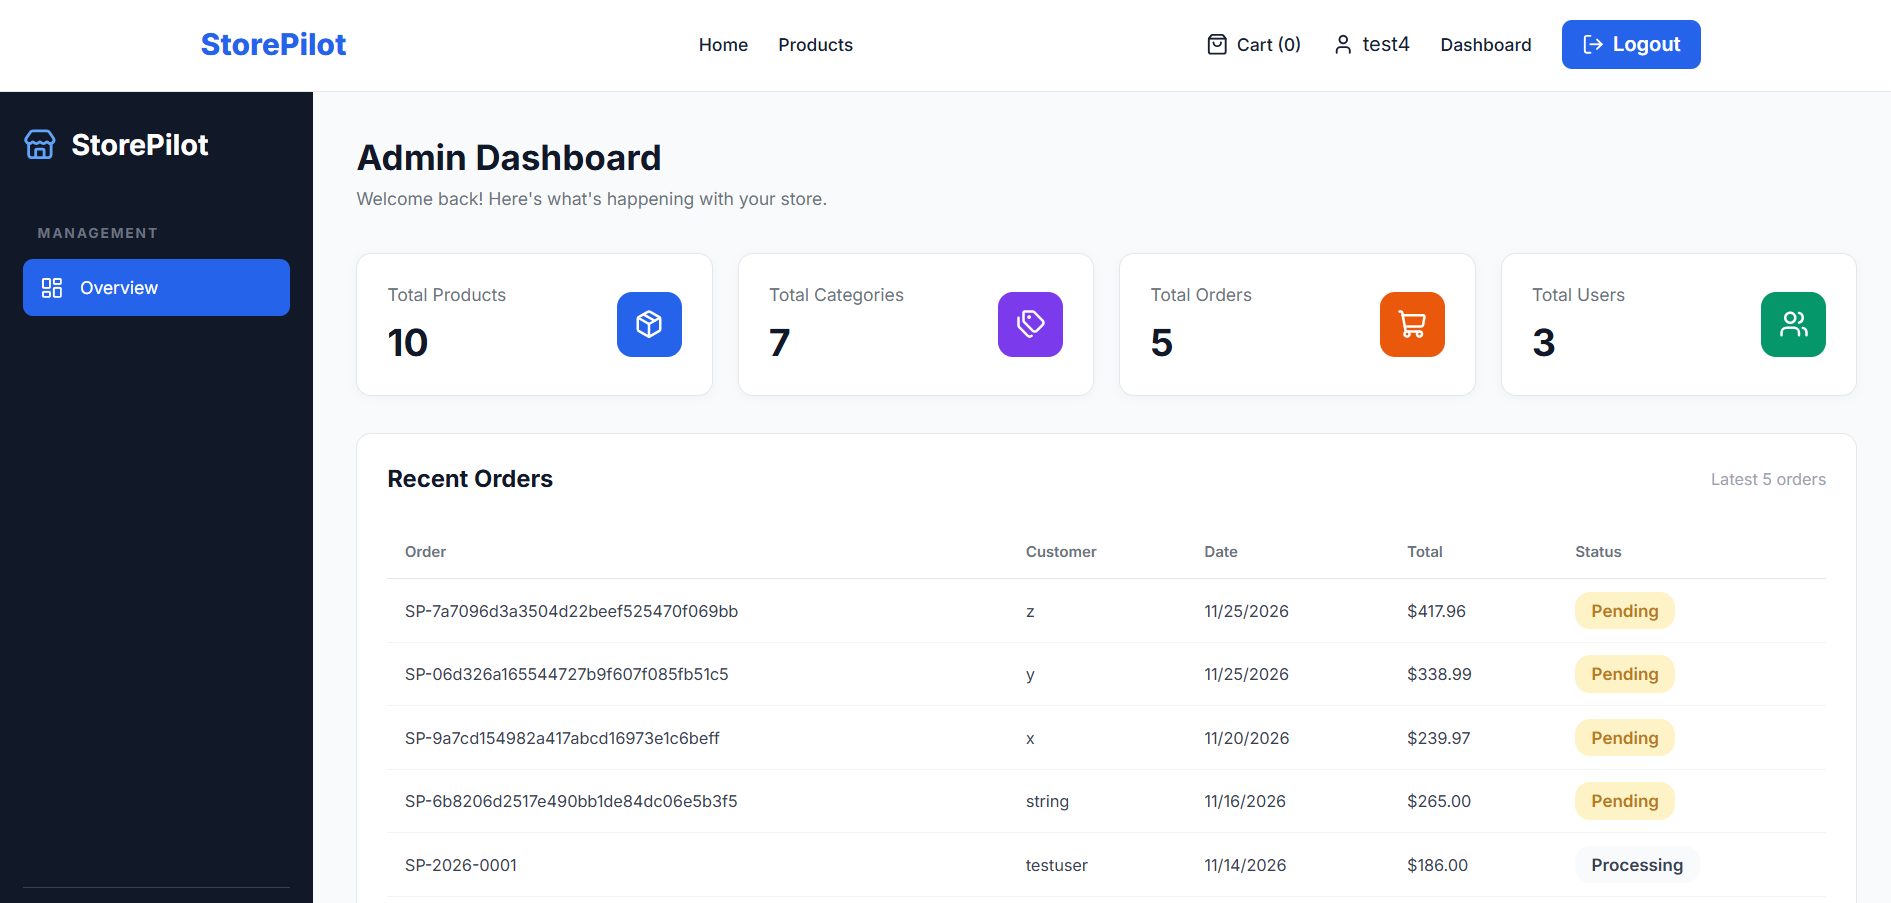
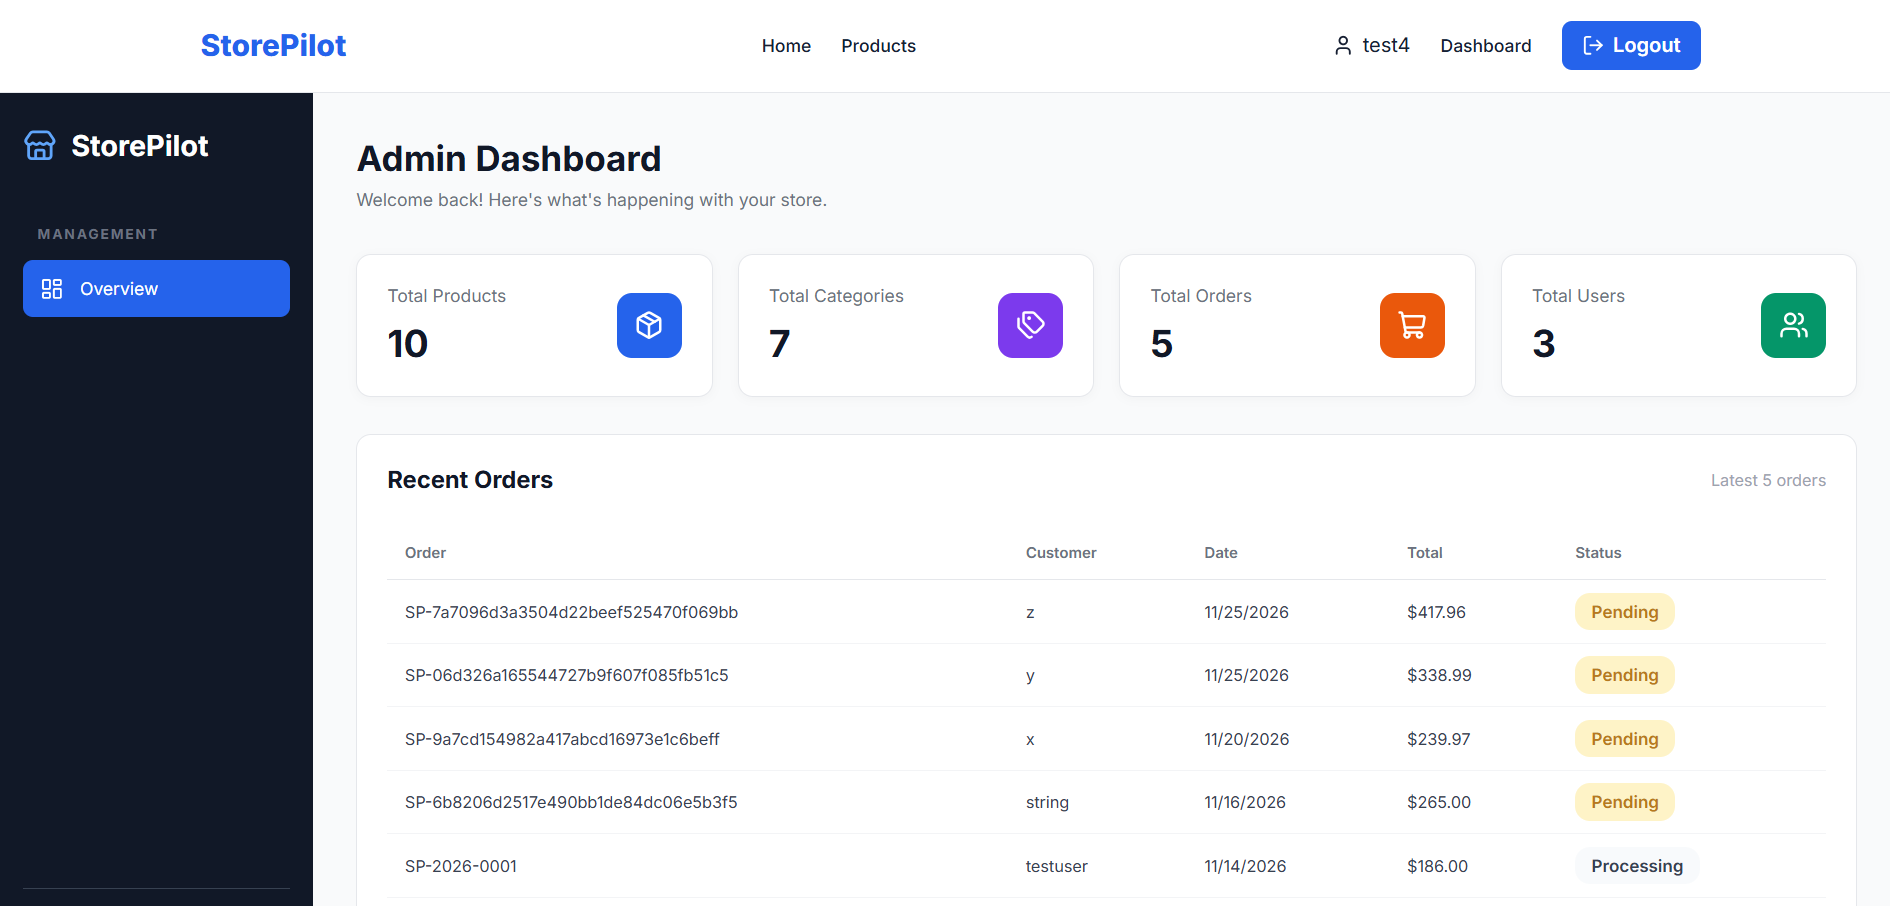
feat: restrict cart link visibility to authenticated customers

diff --git a/Frontend/src/components/common/Navbar.tsx b/Frontend/src/components/common/Navbar.tsx
@@ -28,10 +28,12 @@ export default function Navbar() {
         <div className="nav-actions">
           {isAuthenticated ? (
             <>
-              <Link to="/cart" className="nav-icon">
-                <ShoppingBag size={18} />
-                Cart ({cartCount})
-              </Link>
+              {user?.role === "Customer" && (
+                <Link to="/cart" className="nav-icon">
+                  <ShoppingBag size={18} />
+                  Cart ({cartCount})
+                </Link>
+              )}
 
               <span className="nav-user">
                 <User size={18} />
